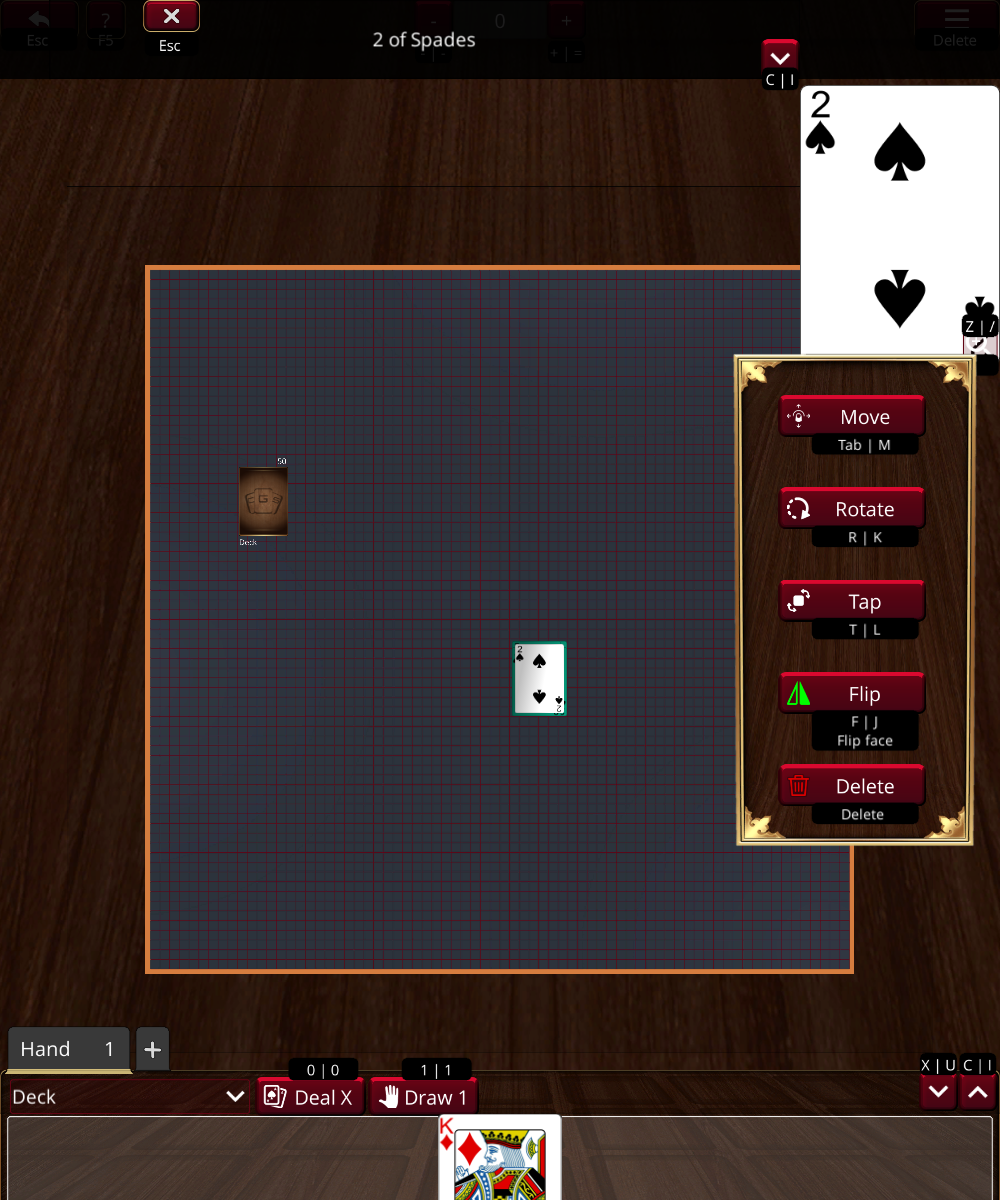
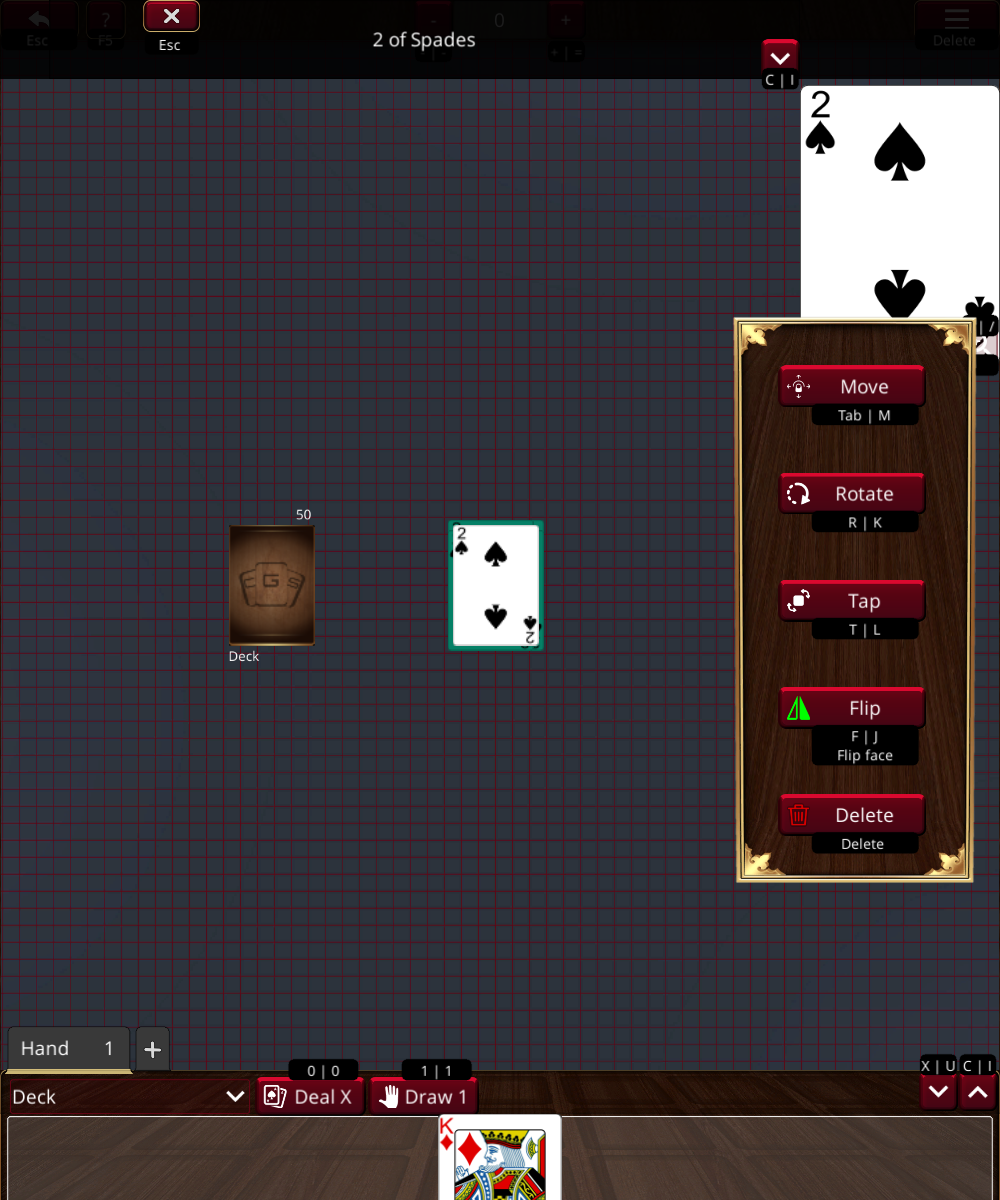
Keep action panels and tooltips inside the viewport

diff --git a/Assets/Tests/PlayMode/ActionPanelViewportFitTests.cs b/Assets/Tests/PlayMode/ActionPanelViewportFitTests.cs
@@ -1,0 +1,143 @@
+/* This Source Code Form is subject to the terms of the Mozilla Public
+ * License, v. 2.0. If a copy of the MPL was not distributed with this
+ * file, You can obtain one at http://mozilla.org/MPL/2.0/. */
+
+#if UNITY_EDITOR
+using System.Collections;
+using System.Linq;
+using System.Reflection;
+using Cgs.Menu;
+using Cgs.UI;
+using NUnit.Framework;
+using UnityEditor;
+using UnityEngine;
+using UnityEngine.EventSystems;
+using UnityEngine.TestTools;
+
+namespace Tests.PlayMode
+{
+    public class ActionPanelViewportFitTests
+    {
+        private GameObject _container;
+        private GameObject _eventSystem;
+        private bool _tooltipsEnabled;
+
+        [SetUp]
+        public void SetUp()
+        {
+            _tooltipsEnabled = Settings.ButtonTooltipsEnabled;
+            Settings.ButtonTooltipsEnabled = true;
+            _container = new GameObject("Action panel test");
+            _container.SetActive(false);
+            if (EventSystem.current == null)
+                _eventSystem = new GameObject("Action panel events", typeof(EventSystem));
+        }
+
+        [TearDown]
+        public void TearDown()
+        {
+            Object.DestroyImmediate(_container);
+            if (_eventSystem != null)
+                Object.DestroyImmediate(_eventSystem);
+            Settings.ButtonTooltipsEnabled = _tooltipsEnabled;
+        }
+
+        [UnityTest]
+        public IEnumerator CardActionsAndTooltipsStayInViewport()
+        {
+            yield return CheckPanel("Card Viewer", "Card Action Panel");
+        }
+
+        [UnityTest]
+        public IEnumerator DockedCardActionsAndTooltipsStayInViewport()
+        {
+            yield return CheckPanel("Card Docked Viewer", "Card Action Panel");
+        }
+
+        [UnityTest]
+        public IEnumerator StackActionsAndTooltipsStayInViewport()
+        {
+            yield return CheckPanel("Playable Viewer", "Stack Action Panel");
+        }
+
+        private IEnumerator CheckPanel(string prefabName, string panelName)
+        {
+            var prefab = AssetDatabase.LoadAssetAtPath<GameObject>(
+                $"Assets/Prefabs/CardGameView/Viewer/{prefabName}.prefab");
+            var viewer = Object.Instantiate(prefab, _container.transform);
+            // Exercise the real UI assets without starting a game or connecting multiplayer.
+            foreach (var behaviour in viewer.GetComponentsInChildren<MonoBehaviour>(true))
+            {
+                if (behaviour is ToolTip || behaviour is ActionPanelViewportFit
+                                        || behaviour is UnityEngine.EventSystems.UIBehaviour)
+                    continue;
+                Object.DestroyImmediate(behaviour);
+            }
+
+            viewer.GetComponent<UnityEngine.UI.CanvasScaler>().enabled = false;
+            viewer.GetComponent<Canvas>().renderMode = RenderMode.WorldSpace;
+            var viewport = (RectTransform)viewer.transform;
+            viewport.localScale = Vector3.one;
+            var panel = viewer.GetComponentsInChildren<RectTransform>(true).Single(t => t.name == panelName);
+            Assert.IsNotNull(panel.GetComponent<ActionPanelViewportFit>());
+            panel.gameObject.SetActive(true);
+            viewer.SetActive(true);
+            _container.SetActive(true);
+
+            // Includes the review's reference height, a shorter ultrawide canvas, portrait,
+            // and a return to the original size to catch cumulative scale/position drift.
+            foreach (var size in new[] {new Vector2(3200, 1800), new Vector2(1920, 1080),
+                         new Vector2(2560, 820), new Vector2(1080, 1920), new Vector2(3200, 1800)})
+            {
+                viewport.sizeDelta = size;
+                yield return null;
+                yield return null;
+                var panelBounds = BoundsIn(viewport, panel);
+                Assert.GreaterOrEqual(panelBounds.yMin, viewport.rect.yMin + 20 - 0.1f);
+                Assert.LessOrEqual(panelBounds.yMax, viewport.rect.yMax - 160 + 0.1f);
+
+                var buttons = panel.GetComponentsInChildren<UnityEngine.UI.Button>();
+                Assert.AreEqual(5, buttons.Length);
+                foreach (var button in buttons)
+                {
+                    var tooltip = button.GetComponentInChildren<ToolTip>();
+                    Assert.IsNotNull(tooltip);
+                    tooltip.OnPointerEnter(null);
+                    yield return null;
+                    yield return null;
+                    var tipObject = (GameObject)typeof(ToolTip).GetField("_toolTipGameObject",
+                        BindingFlags.Instance | BindingFlags.NonPublic).GetValue(tooltip);
+                    Assert.IsNotNull(tipObject, $"{prefabName}: {button.name} must create its tooltip.");
+                    var tipRect = (RectTransform)tipObject.transform;
+                    var tipBounds = BoundsIn(viewport, tipRect);
+                    Assert.GreaterOrEqual(tipBounds.yMin, viewport.rect.yMin - 0.1f, button.name);
+                    Assert.LessOrEqual(tipBounds.yMax, viewport.rect.yMax + 0.1f, button.name);
+                    foreach (var other in buttons)
+                    {
+                        // The tooltip may touch its own button's decorative padding, but not its label.
+                        var content = other == button ? other.transform.Find("Label") : other.transform;
+                        var buttonBounds = BoundsIn(viewport, (RectTransform)content);
+                        var overlapHeight = Mathf.Min(tipBounds.yMax, buttonBounds.yMax)
+                                            - Mathf.Max(tipBounds.yMin, buttonBounds.yMin);
+                        Assert.LessOrEqual(overlapHeight, 0.1f,
+                            $"{button.name} tooltip {tipBounds} overlaps {other.name} {buttonBounds} at {size}.");
+                    }
+                    tooltip.OnPointerExit(null);
+                }
+
+                if (Mathf.Approximately(size.y, 1800))
+                    Assert.AreEqual(Vector3.one, panel.localScale, "Restore full size when space returns.");
+            }
+        }
+
+        private static Rect BoundsIn(RectTransform viewport, RectTransform target)
+        {
+            var corners = new Vector3[4];
+            target.GetWorldCorners(corners);
+            var bottomLeft = viewport.InverseTransformPoint(corners[0]);
+            var topRight = viewport.InverseTransformPoint(corners[2]);
+            return Rect.MinMaxRect(bottomLeft.x, bottomLeft.y, topRight.x, topRight.y);
+        }
+    }
+}
+#endif

diff --git a/Assets/Scripts/Cgs/UI/ActionPanelViewportFit.cs b/Assets/Scripts/Cgs/UI/ActionPanelViewportFit.cs
@@ -1,0 +1,64 @@
+/* This Source Code Form is subject to the terms of the Mozilla Public
+ * License, v. 2.0. If a copy of the MPL was not distributed with this
+ * file, You can obtain one at http://mozilla.org/MPL/2.0/. */
+
+using UnityEngine;
+
+namespace Cgs.UI
+{
+    [RequireComponent(typeof(RectTransform))]
+    public sealed class ActionPanelViewportFit : MonoBehaviour
+    {
+        [SerializeField, Min(0)] float topInset = 160;
+        [SerializeField, Min(0)] float bottomInset = 20;
+
+        private RectTransform _rectTransform;
+        private RectTransform _viewport;
+        private Vector2 _preferredPosition;
+        private Rect _previousViewport;
+        private bool _layoutDirty = true;
+
+        private void Awake()
+        {
+            _rectTransform = (RectTransform)transform;
+            _viewport = transform.parent as RectTransform;
+            _preferredPosition = _rectTransform.anchoredPosition;
+        }
+
+        private void OnEnable()
+        {
+            _layoutDirty = true;
+        }
+
+        private void OnRectTransformDimensionsChange()
+        {
+            _layoutDirty = true;
+        }
+
+        private void LateUpdate()
+        {
+            if (_viewport == null || _rectTransform.rect.height <= 0)
+                return;
+
+            var viewport = _viewport.rect;
+            // Fixed-anchor children need not change dimensions when their canvas resizes.
+            if (!_layoutDirty && viewport == _previousViewport)
+                return;
+
+            _layoutDirty = false;
+            _previousViewport = viewport;
+            var availableHeight = Mathf.Max(0, viewport.height - topInset - bottomInset);
+            var scale = Mathf.Min(1, availableHeight / _rectTransform.rect.height);
+
+            // Scale the complete panel so the gaps and below-button tooltips stay together.
+            _rectTransform.localScale = new Vector3(scale, scale, 1);
+            var height = _rectTransform.rect.height * scale;
+            var anchorY = viewport.yMin + viewport.height * Mathf.Lerp(
+                _rectTransform.anchorMin.y, _rectTransform.anchorMax.y, _rectTransform.pivot.y);
+            var minimumY = viewport.yMin + bottomInset + height * _rectTransform.pivot.y;
+            var maximumY = viewport.yMax - topInset - height * (1 - _rectTransform.pivot.y);
+            var positionY = Mathf.Clamp(anchorY + _preferredPosition.y, minimumY, maximumY);
+            _rectTransform.anchoredPosition = new Vector2(_preferredPosition.x, positionY - anchorY);
+        }
+    }
+}
